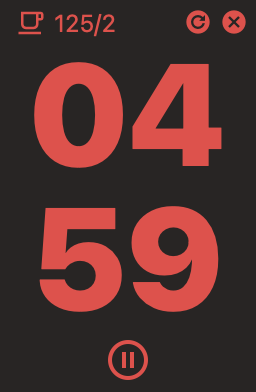
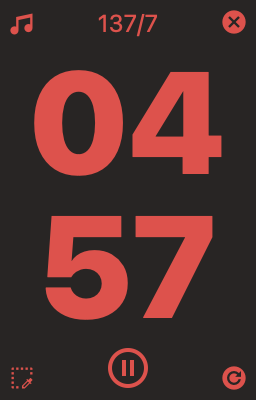
功能开发,增加背景音切换和主题色切换功能

diff --git a/src/store/store.ts b/src/store/store.ts
@@ -1,6 +1,7 @@
 import { get, writable } from "svelte/store";
 import { DefaultBreakDuration, DefaultWorkDuration, Keys, MagicNumber, Status, Tasks, WorkType } from "../config";
 import { getIntDefault, saveItem } from "./local";
+import { themeNum } from "../style";
 
 export const timer = {
   id: null
@@ -11,6 +12,7 @@ export const workType = writable(WorkType.Work)
 export const daykey = writable(Keys.today())
 export const today = writable(0)
 export const total = writable(0)
+export const theme = writable(0)
 
 export const action = {
   initData: (td: number, tt: number, c: number) => {
@@ -30,6 +32,9 @@ export const action = {
       if (get(workType) === WorkType.Work) {
         today.update(t => t + 1)
         total.update(t => t + 1)
+        if (get(today) % MagicNumber === 0) {
+          action.changeTheme()
+        }
         workType.set(WorkType.Break)
         count.set(getIntDefault(Keys.defaultBreakDuration, DefaultBreakDuration))
         // 当天数量本地保存
@@ -62,5 +67,8 @@ export const action = {
     count.set(getIntDefault(Keys.defaultWorkDuration, DefaultWorkDuration))
     status.set(Status.Idle)
     workType.set(WorkType.Work)
+  },
+  changeTheme: () => {
+    theme.update(t => (t + 1) % themeNum)
   }
 }

diff --git a/src/components/pomodoro-count.svelte b/src/components/pomodoro-count.svelte
@@ -1,23 +1,28 @@
 <script lang="ts">
-  import ClockOutline from "svelte-material-icons/ClockOutline.svelte";
-  import CoffeeOutline from "svelte-material-icons/CoffeeOutline.svelte";
-  import { WorkType } from '../config';
-  import { today, total, workType } from "../store/store";
+  import Music from "svelte-material-icons/Music.svelte";
+  import MusicOff from "svelte-material-icons/MusicOff.svelte";
+  import { today, total, status } from "../store/store";
   import { changeAudio, playAudio } from "../utils";
+    import { Status } from "../config";
 
   console.log("render today count")
 
+  let musicOff = false 
+
   function change() {
-    playAudio(changeAudio())
+    if ($status === Status.Tick) {
+      musicOff = !changeAudio()
+      playAudio(!musicOff)
+    }
   }
 
 </script>
 
 <button on:click={change}>
-{#if $workType === WorkType.Work}
-  <ClockOutline />
+{#if musicOff }
+  <MusicOff />
 {:else}
-  <CoffeeOutline />
+  <Music />
 {/if}
 </button>
-<span class="text-xs ml-1 pt-0">{ $total }/{ $today }</span>
+<span class="text-xs pt-0">{ $total }/{ $today }</span>

diff --git a/src/App.svelte b/src/App.svelte
@@ -1,6 +1,6 @@
 <script lang="ts">
-  import { action, today, workType } from './store/store';
-  import { onDestroy, onMount } from 'svelte';
+  import { action, workType, theme } from './store/store';
+  import { onMount } from 'svelte';
   import { DefaultWorkDuration, Keys, MagicNumber, Tasks, dataJsonURL, diAudioPaths, endAudioPaths } from './config';
   import { getIntDefault, initItem } from './store/local';
   import { resolveResource } from "@tauri-apps/api/path";
@@ -40,9 +40,8 @@
 
   let mainStyle = ""
   $: {
-    const index = Math.floor($today / MagicNumber)
     const arr = TextColors[$workType]??TextColors[1]
-    const color = arr[index]??arr[MagicNumber]
+    const color = arr[$theme]??arr[0]
     mainStyle = ClassContainer + color 
   }
 </script>

diff --git a/src/components/footbar.svelte b/src/components/footbar.svelte
@@ -1,9 +1,18 @@
 <script lang="ts">
+  import { action } from "../store/store";
   import OperationButton from "./operation-button.svelte";
   import RefreshButton from "./refresh-button.svelte";
+  import SelectColor from "svelte-material-icons/SelectColor.svelte";
+
+  function changeTheme() {
+    action.changeTheme()
+  }
 </script>
 
-<div class="flex flex-row justify-center space-x-1 mt-1 text-2xl">
-  <RefreshButton />
+<div class="flex flex-row items-end mt-1 px-1 text-2xl">
+  <button class="flex flex-row justify-start text-sm basis-1/4" on:click={changeTheme}>
+    <SelectColor />
+  </button>
   <OperationButton />
+  <RefreshButton />
 </div>

diff --git a/src/components/time-counter.svelte b/src/components/time-counter.svelte
@@ -6,7 +6,7 @@
 
 </script>
 
-<div class="flex flex-col items-center font-black" data-tauri-drag-region>
+<div class="flex flex-col items-center font-black mt-1" data-tauri-drag-region>
   <h1 class="text-7xl" data-tauri-drag-region>{ convertMinuteString($count) }</h1>
   <h4 class="text-7xl" data-tauri-drag-region>{ convertSecondString($count) }</h4>
 </div>

diff --git a/src/components/appbar.svelte b/src/components/appbar.svelte
@@ -6,7 +6,7 @@
   //
 </script>
 
-<div class="flex flex-row justify-between pt-1 px-1 text-lg">
+<div class="flex flex-row justify-between pt-1 px-1 text-sm">
   <PomodoroCount />
   <button class="flex flex-row justify-end space-x-1" on:click={() => appWindow.close() }>
     <Close />

diff --git a/src/components/refresh-button.svelte b/src/components/refresh-button.svelte
@@ -6,7 +6,7 @@
   console.log("render refresh")
 </script>
 
-<button on:click={action.reset}>
+<button class="flex flex-row justify-end text-sm basis-1/4" on:click={action.reset}>
 {#if $status === Status.Pause || $workType === WorkType.Break}
   <RefreshCircle />
 {/if}

diff --git a/src/config.ts b/src/config.ts
@@ -10,7 +10,7 @@ export enum WorkType {
   Break,
 }
 
-export const MagicNumber = 4 // 每天番茄数量颜色改变的间隔
+export const MagicNumber = 3 // 每天番茄数量颜色改变的间隔
 
 export const INTERVAL = 1000
 

diff --git a/src/components/operation-button.svelte b/src/components/operation-button.svelte
@@ -24,7 +24,7 @@
 
 </script>
 
-<button on:click={action.tick}>
+<button class="flex flex-row justify-center basis-1/2" on:click={action.tick}>
 {#if $status === Status.Tick}
 	<PauseCircleOutline />
 {:else}

diff --git a/src/style.ts b/src/style.ts
@@ -1,3 +1,4 @@
+export const themeNum = 5
 export const TextColors = [
     [],
     [

diff --git a/README.md b/README.md
@@ -9,9 +9,9 @@ A simple pomodoro timer write in Tauri and Svelte.
 
 ## Screenshots
 
-<img src="./screenshots/screenshot.png" width="128" height="196" alt="Screenshot of Pomodoro">
+<img src="./screenshots/screenshot.png" width="128" height="200" alt="Screenshot of Pomodoro">
 
-<img src="./screenshots/screenshot_break.png" width="128" height="196" alt="Screenshot of Pomodoro">
+<img src="./screenshots/screenshot_break.png" width="128" height="200" alt="Screenshot of Pomodoro">
 
 # Tauri + Svelte + Typescript
 
